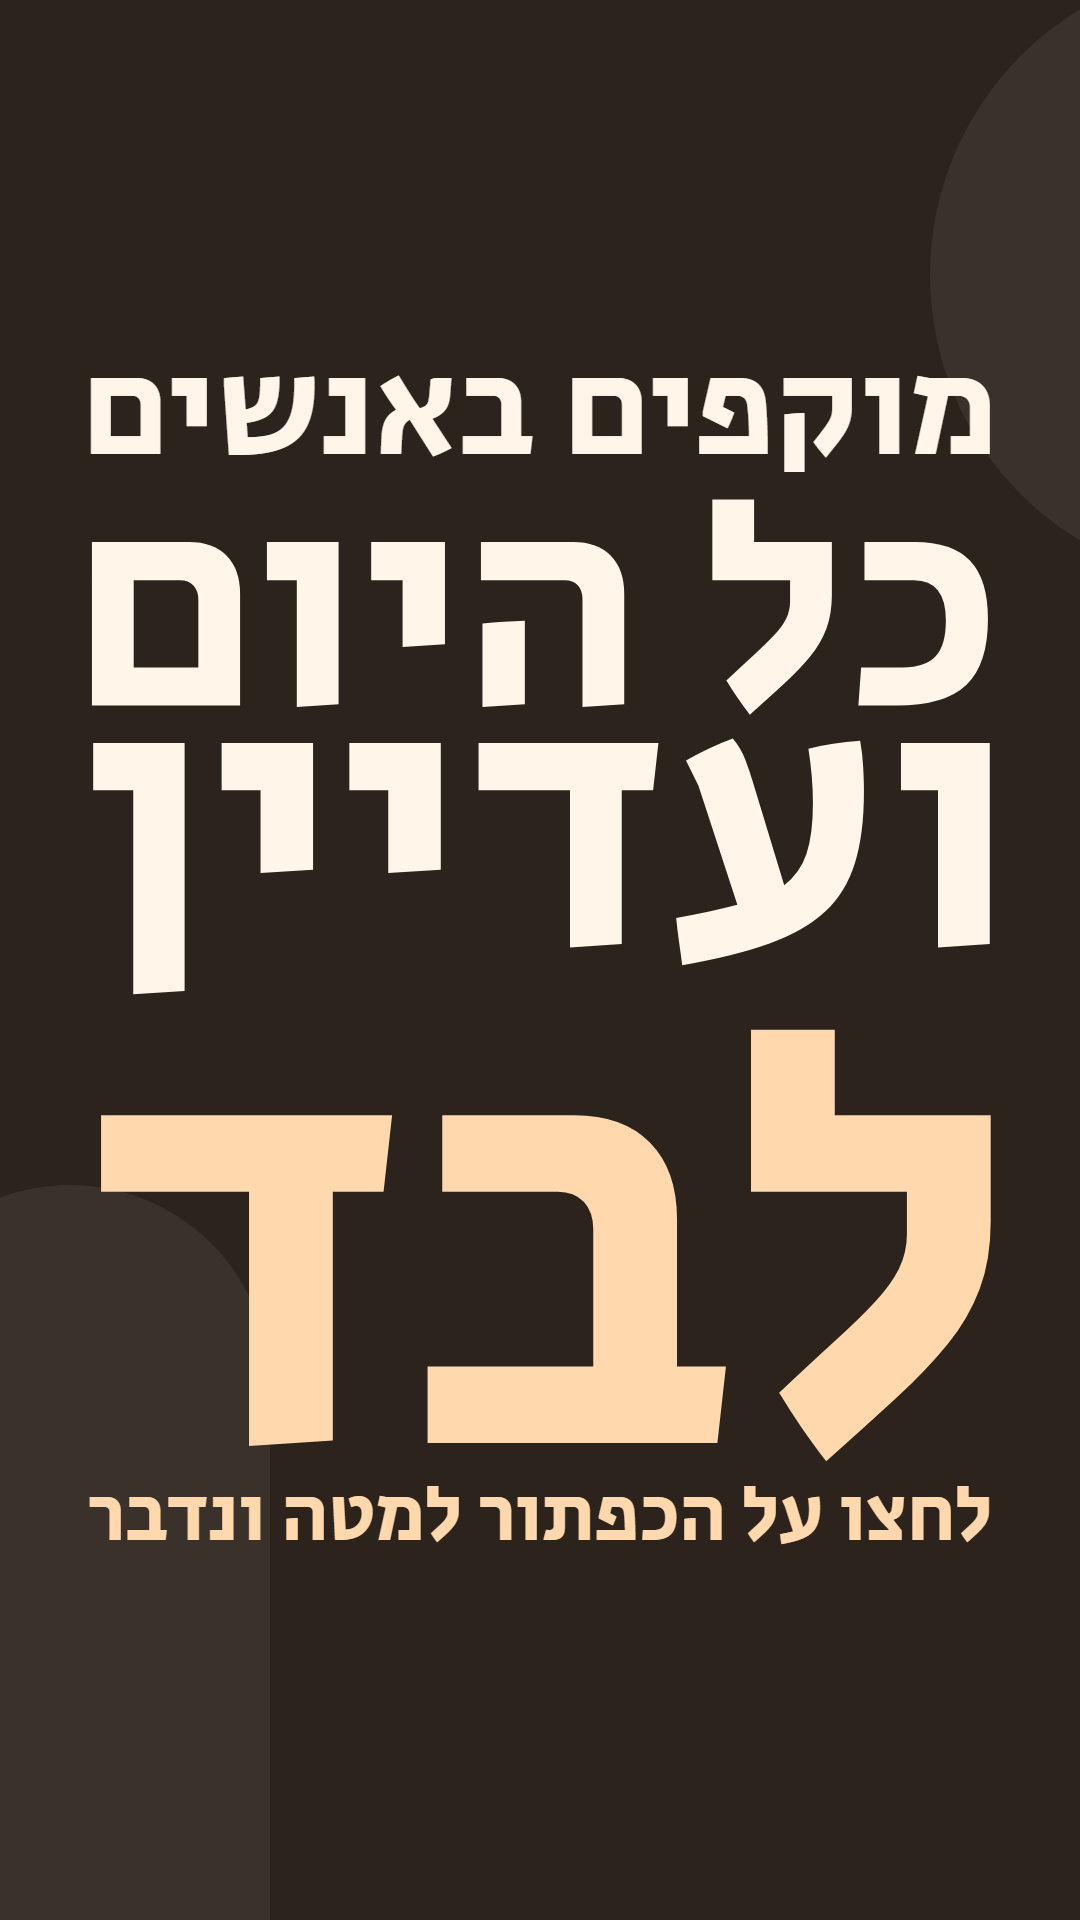
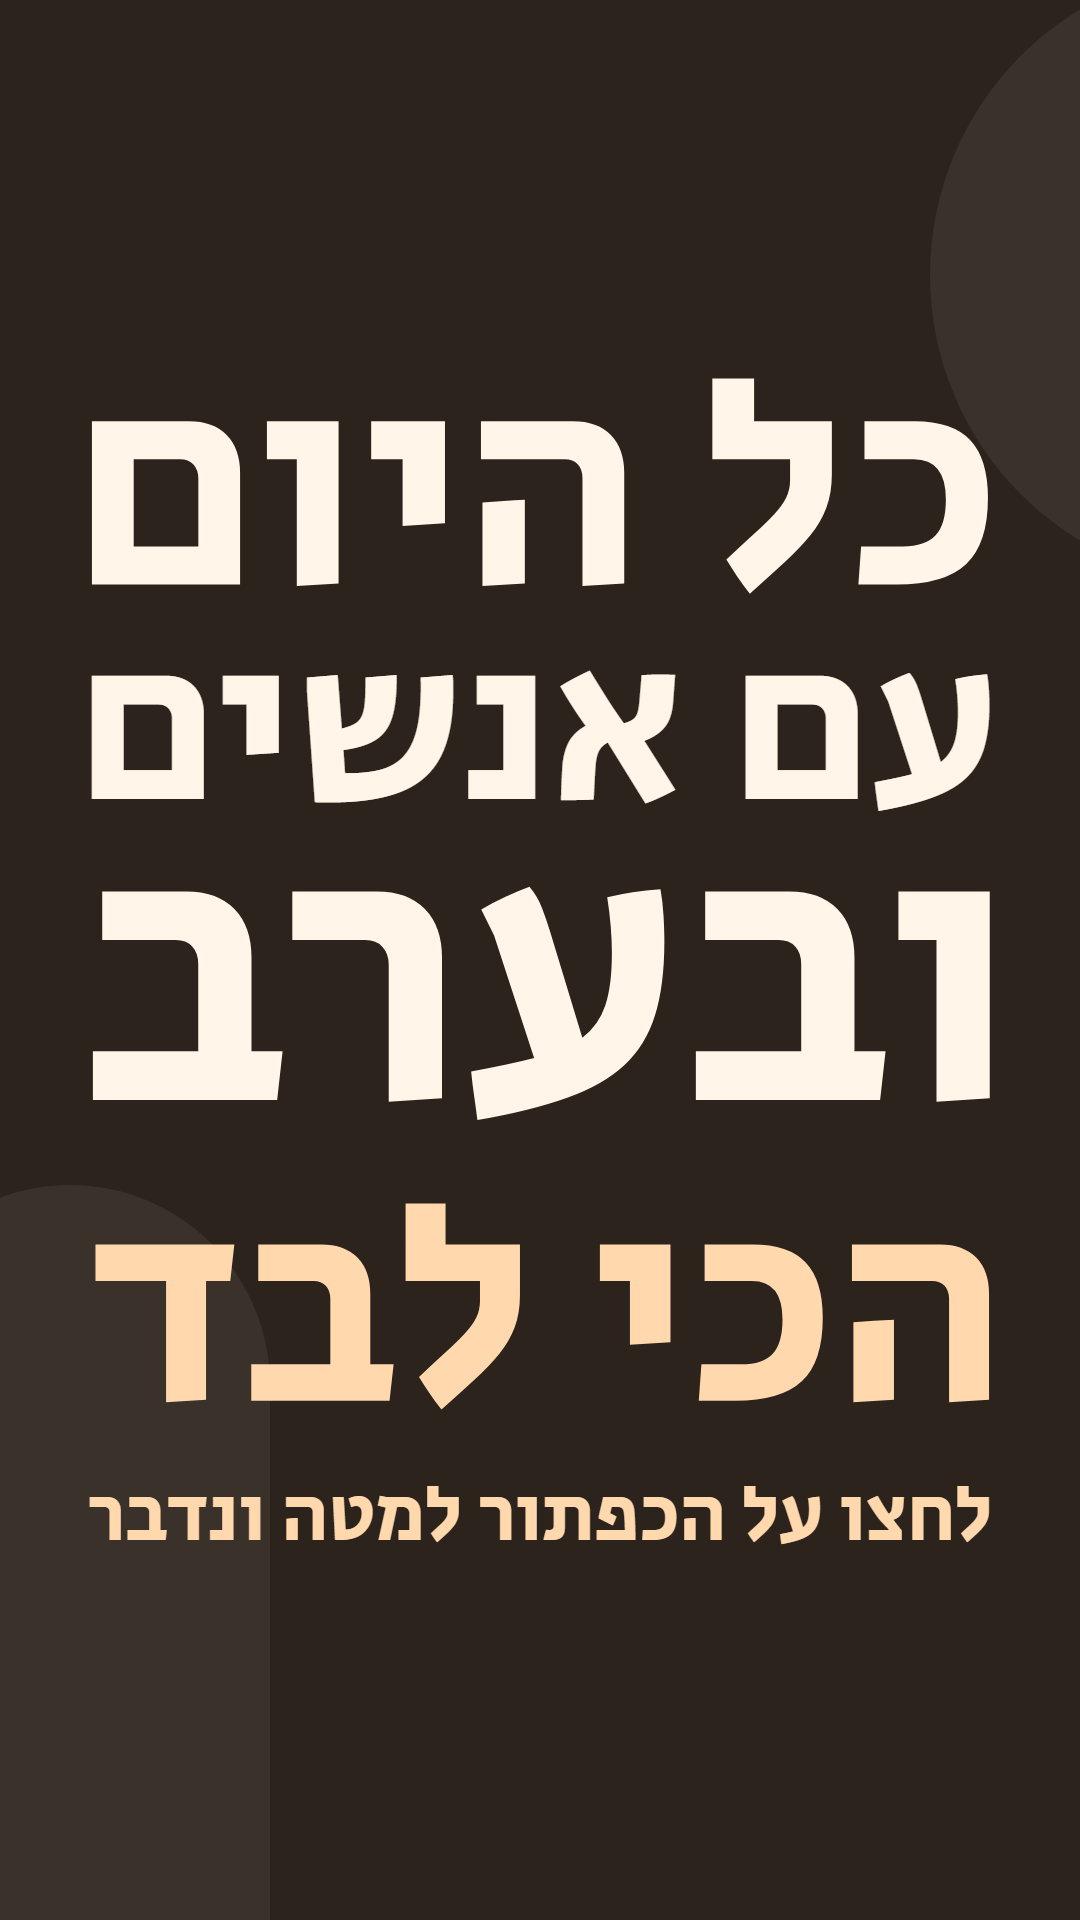
מודעות צ'אט: ניסוחים מחודדים לחמש המודעות

Changed region(s): [[0.0611, 0.1875, 0.9167, 0.7812]]

diff --git a/supabase/functions/harpatka-chat/prompt.ts b/supabase/functions/harpatka-chat/prompt.ts
@@ -118,9 +118,9 @@ export const STATIC_PROMPT = `אתם הבוט של "יוצאים להרפתקה"
 export const AD_TEXTS: Record<string, string> = {
   touch: 'כמה זמן עבר מאז שמישהו חיבק אותנו בלי סיבה?',
   mask: 'העייפות הכי גדולה היא לא מהעבודה. היא מלהיות "בסדר" כל היום',
-  dim: 'הכול בסדר אז למה משהו בפנים כבוי?',
-  years: 'הפחד שאף אחד לא אומר בקול שהשנים עוברות ואנחנו לא באמת חיים',
-  crowd: 'מוקפים באנשים כל היום ועדיין לבד',
+  dim: 'אין על מה להתלונן ובכל זאת משהו בפנים כבוי',
+  years: 'עוד שנה עברה ואנחנו רק מתפקדים',
+  crowd: 'כל היום עם אנשים ובערב הכי לבד',
   numb: 'הכי מפחיד זה לא שהכול רע. זה שהכול בסדר, ואנחנו כבר לא מרגישים',
 };
 
@@ -128,9 +128,9 @@ export const AD_TEXTS: Record<string, string> = {
 export const AD_PAIN: Record<string, string> = {
   touch: 'חוסר מגע וקרבה. הוא עלול להתבייש בזה, לחשוב שכבר לא בשבילו או שהגוף "נסגר". קשה במיוחד בערבים כשהבית שקט, ואחרי פרידה או כשהילדים יצאו.',
   mask: 'עייפות מלהיות "בסדר" כל היום, ושאין מקום להוריד מסכה ולהיראות באמת. עלול לפחד שיסתכלו עליו או שלא יידע מי הוא בלי התפקיד.',
-  dim: 'הכול בסדר מבחוץ, ובפנים אין תחושת חיים. עלול להתבייש להתלונן כי אין סיבה, ולפעמים לפחד שזה כך מעכשיו.',
-  years: 'פחד שהחיים עוברים בלי שחי באמת. נושא כבד שמעטים אומרים בקול. לשאול על רגע ספציפי, לא להעמיק בחרדה ולא להבטיח.',
-  crowd: 'בדידות בתוך אנשים: יש סביבו אנשים אבל אין חיבור אמיתי, וחסר מי שרואה אותו באמת.',
+  dim: 'אין לו על מה להתלונן, ובכל זאת משהו בפנים כבוי. מתבייש להתלונן כי אין סיבה, ולפעמים פוחד שזה כך מעכשיו.',
+  years: 'פחד שהחיים עוברים והם רק מתפקדים בלי לחיות באמת. נושא כבד שמעטים אומרים בקול. לשאול על רגע ספציפי, לא להעמיק בחרדה ולא להבטיח.',
+  crowd: 'בדידות בתוך אנשים: כל היום סביבו אנשים, אבל בערב, כשנשאר לבד, מורגש שאין חיבור אמיתי ואין מי שרואה אותו.',
   numb: 'קהות: הכול בסדר ואין תחושה. עלול לפחד שזה כך מעכשיו, או לחשוש להתחיל להרגיש. לפעמים מתחת יש געגוע לחיות.',
 };
 

diff --git a/ads/tools/build_chat_ads.py b/ads/tools/build_chat_ads.py
@@ -16,11 +16,11 @@ ADS = {
   "fear": ([("הכי קשה", "fg"), ("זה לא להיות לבד", "fg"), ("זה להיכנס לחדר", "fg"), ("מלא אנשים", "acc"), ("ולא לדעת מה להגיד", "fg")], "#FFD8AE"),
   "seen": ([("מתי בפעם האחרונה", "fg"), ("מישהו הסתכל", "fg"), ("עלינו", "fg"), ("באמת?", "acc")], "#EC7F78"),
   "seen2": ([("יש הבדל", "fg"), ("בין שמכירים אותנו", "fg"), ("לבין", "fg"), ("שרואים", "acc"), ("אותנו", "fg")], "#EC7F78"),
-  "lost": ([("לאן נעלמנו?", "acc"), ("אלה שצחקו", "fg"), ("בלי סיבה", "fg"), ("והתרגשו", "fg"), ("מכל דבר", "fg")], "#FF8A5C"),
-  "dim": ([("הכול בסדר", "fg"), ("אז למה", "fg"), ("משהו בפנים", "fg"), ("כבוי?", "acc")], "#8DB255"),
-  "years": ([("הפחד שאף אחד", "fg"), ("לא אומר בקול", "fg"), ("שהשנים עוברות", "fg"), ("ואנחנו לא", "fg"), ("באמת חיים", "acc")], "#E5562D"),
-  "unseen": ([("מתי מישהו", "fg"), ("היה סקרן", "acc"), ("לגבי מי", "fg"), ("אנחנו", "fg"), ("באמת?", "fg")], "#EC7F78"),
-  "crowd": ([("מוקפים באנשים", "fg"), ("כל היום", "fg"), ("ועדיין", "fg"), ("לבד", "acc")], "#FFD8AE"),
+  "lost": ([("מתי הפסקנו", "acc"), ("לצחוק", "fg"), ("בלי סיבה?", "fg")], "#FF8A5C"),
+  "dim": ([("אין על מה", "fg"), ("להתלונן", "fg"), ("ובכל זאת", "fg"), ("משהו בפנים", "fg"), ("כבוי", "acc")], "#8DB255"),
+  "years": ([("עוד שנה עברה", "fg"), ("ואנחנו רק", "fg"), ("מתפקדים", "acc")], "#E5562D"),
+  "unseen": ([("מתי מישהו", "fg"), ("שאל מה שלומנו", "fg"), ("והתכוון", "acc"), ("לזה?", "fg")], "#EC7F78"),
+  "crowd": ([("כל היום", "fg"), ("עם אנשים", "fg"), ("ובערב", "fg"), ("הכי לבד", "acc")], "#FFD8AE"),
   "numb": ([("הכי מפחיד", "fg"), ("זה לא שהכול רע", "fg"), ("זה שהכול בסדר,", "fg"), ("ואנחנו כבר", "acc"), ("לא מרגישים", "acc")], "#E5562D"),
 }
 
